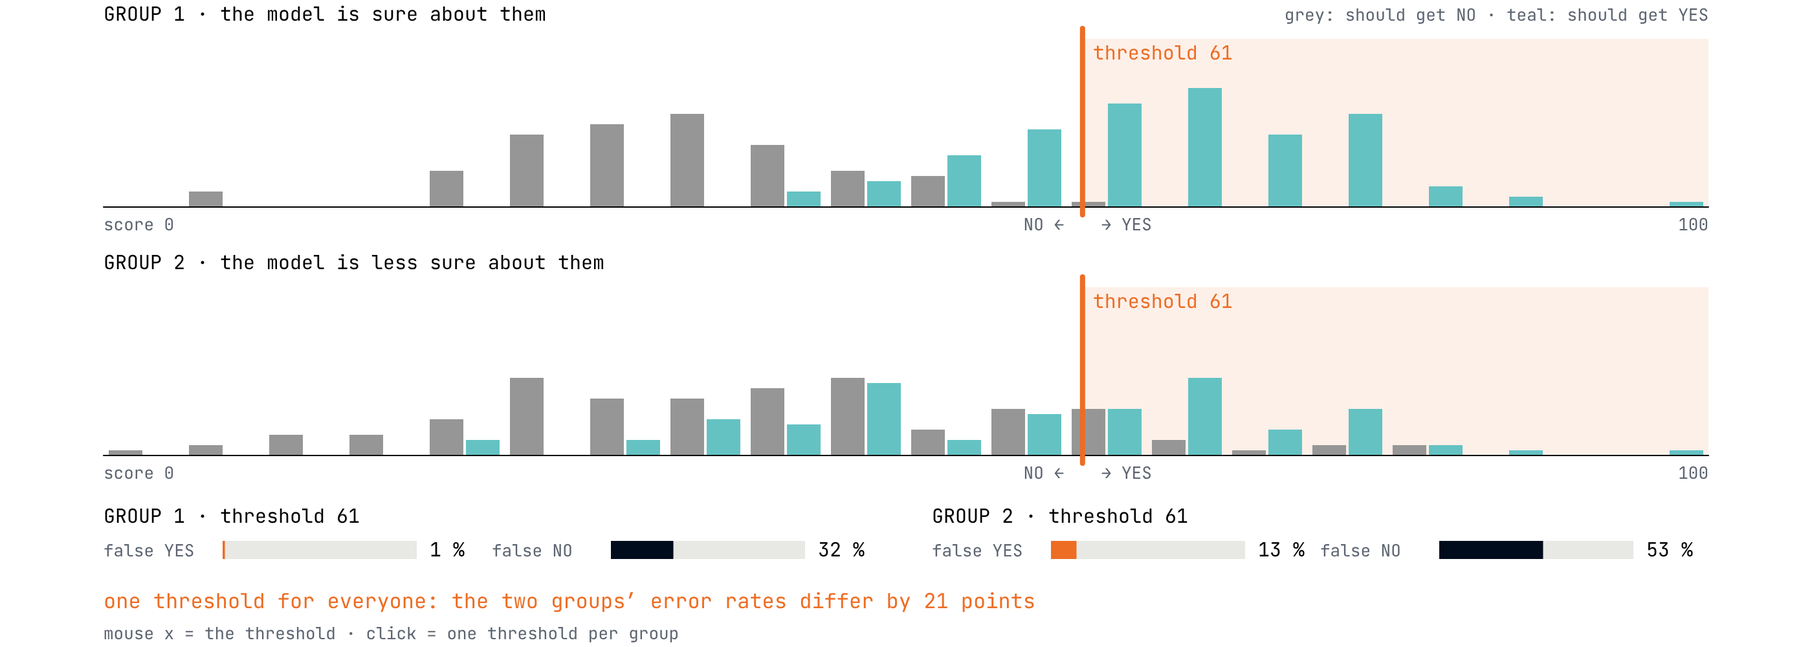
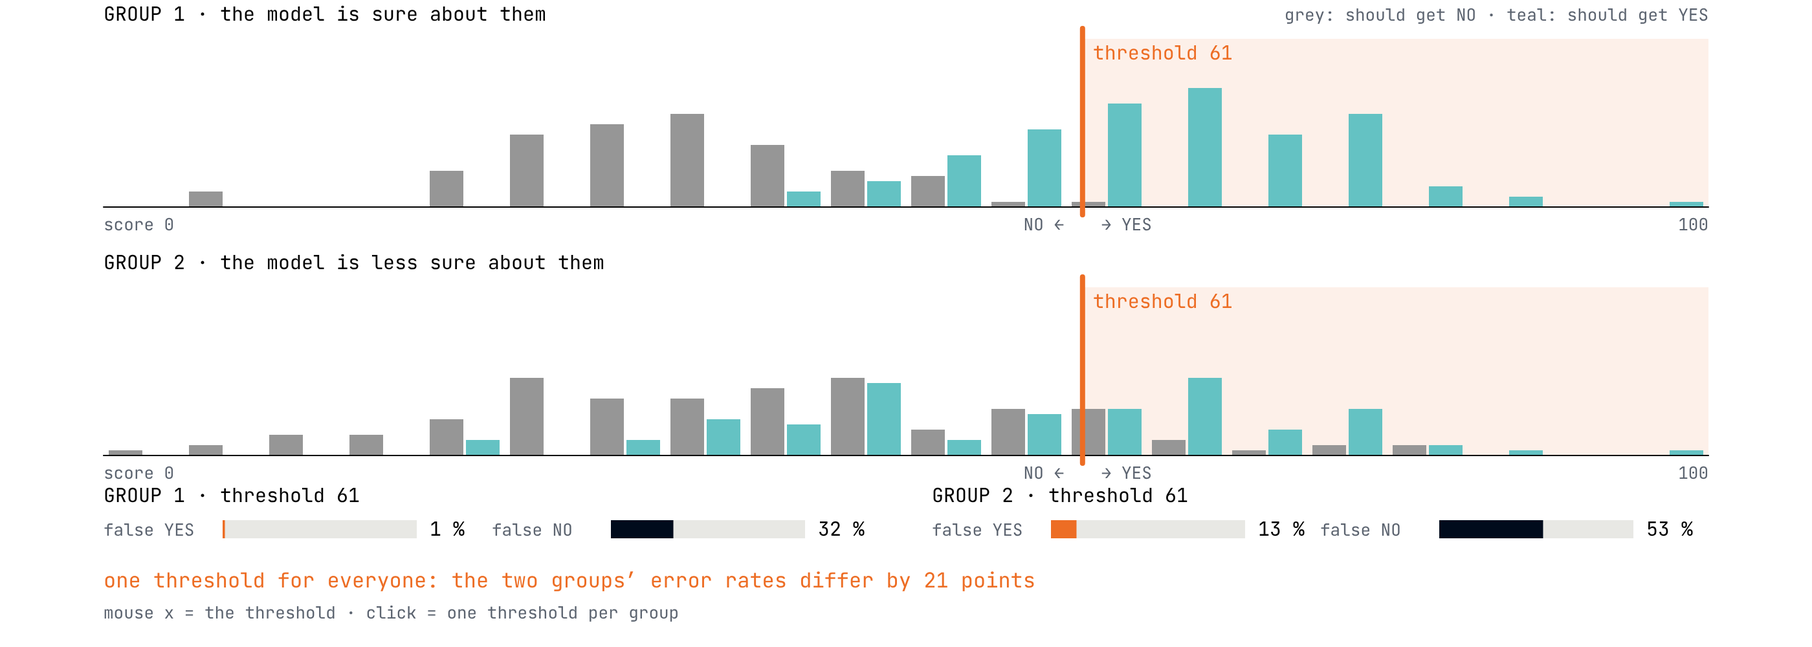
Checkpoint: review fixes in progress (week 9)
Work in progress from the per-week build; the verified state follows in later commits.

Claude-Session: https://claude.ai/code/session_01RdFxTgrpAFbL82dNscS9CL

Changed region(s): [[0.0621, 0.744, 0.9321, 0.992]]

diff --git a/deck/week09.py b/deck/week09.py
@@ -107,8 +107,8 @@ function panel(s, w, wrongWin, wrongWorld) {
           : accWorld > 85 ? 'a fair sample: it learned the world' : 'a straight line; the world is curved';
     text(v, x, 384);
   }
-  if (locked) { fill('#ED6D24'); textSize(15); text('LOCKED · click to release', x, 470); }
-  else { fill(92, 100, 112); textSize(14); text('mouse = the window · click = lock it', x, 470); }
+  if (locked) { fill('#ED6D24'); textSize(15); text('LOCKED · click to release', x, 436); }
+  else { fill(92, 100, 112); textSize(14); text('mouse = the window · click = lock it', x, 436); }
 }
 function bar(x, y, label, v, col) {
   fill(0); textSize(16); text(label, x, y + 14);
@@ -171,7 +171,7 @@ function draw() {
 }
 
 function stats(r, t) {
-  let y = 404;
+  let y = 388;                                              // the verdict line stays clear of the deck's LIVE chip
   for (let g = 0; g < 2; g++) {
     let x = X0 + g * 640;
     noStroke(); fill(0); textSize(15); textAlign(LEFT, BASELINE); text('GROUP ' + (g + 1) + ' · threshold ' + t[g], x, y);
@@ -248,8 +248,8 @@ function draw() {
   fill(0); textSize(16);
   let done = STEPS.slice(0, L), lines = L == 0 ? ['nothing'] : [done.slice(0, 3).join(' · '), done.slice(3).join(' · ')].filter(s => s);
   lines.forEach((s, i) => text(s, x, 222 + i * 22));                            // three steps per line
-  fill('#ED6D24'); textSize(15); text('UNIQUE ROWS', x, 270);
-  fill(0); textSize(28); text(unique + ' of 12', x, 306);
+  fill('#ED6D24'); textSize(15); text('UNIQUE ROWS', x, 278);
+  fill(0); textSize(28); text(unique + ' of 12', x, 313);
   fill('#ED6D24'); textSize(15); text('A NEIGHBOUR WHO KNOWS YOU ARE 46, DISTRICT F, M', x, 356);
   fill(0); textSize(16);
   text(twins.length == 1 ? 'finds one row: ' + ROWS[YOU][3] + '. That is your diagnosis.' : 'narrows it to ' + twins.length + ' rows:', x, 382);
@@ -440,7 +440,7 @@ S.append(content('04 · EQUAL THRESHOLDS, OR EQUAL ERROR RATES', 'Choose which "
                   '- **A person in the loop.** Send the uncertain band to a human. Which human, how fast, and can they overrule the score?',
                   'Google’s 2016 explorable by Wattenberg, Viégas and Hardt let you drag the thresholds; our sketch is the small version.'],
                  body_size=28,
-                 notes='Four things a team can actually do, none of them free. One threshold is what you get by default, and the default is a decision too. Equal error rates is the sketch on the previous slide, click mode: it is a rule you add on top of machine B — machine A guarding machine B — and it shifts the cost onto the company, which is the incentive Hardt wants. A better model is the only real fix and takes months. A person in the loop is the one most products ship, and the register asks the two questions that make it real: who, and can they say no. Then the poll.'))
+                 notes='Four things a team can actually do, none of them free. One threshold is what you get by default, and the default is a decision too. Equal error rates is the sketch two slides back, click mode: it is a rule you add on top of machine B — machine A guarding machine B — and it shifts the cost onto the company, which is the incentive Hardt wants. A better model is the only real fix and takes months. A person in the loop is the one most products ship, and the register asks the two questions that make it real: who, and can they say no. Then the poll.'))
 
 S.append(question('multiple_choice', 'Your model is less sure about one group of users. What ships?', [
     'One threshold for everyone', 'A threshold per group, so the error rates match', 'Nothing, until the model is equally good', 'The uncertain cases go to a person',
@@ -549,7 +549,7 @@ S.append(question('short_answer', 'Team number, and the decision with the bigges
                   notes='Two minutes, scribes only, about 25 lines. Read four aloud and apply the first test to each: is it a verb and a person? "Personalises the experience" fails; "dims the lamp when it thinks she is tired" passes. A line that fails goes back to its team as the first row to fix. Keep the export: week 10 opens by asking every team for the guardrail of this same decision.'))
 
 S.append(activity('2 — TEAMS · THE REGISTER', 10, 'Fill the register for the three.',
-                  ['Three rows, five columns, on paper or in a shared doc. The template is on the right; the filled example is two slides back.',
+                  ['Three rows, five columns, on paper or in a shared doc. The template is on the right; the filled example is in chapter 07.',
                    'Rule: every cell names something concrete. "Users" is not a data source; "the 20 beta testers, all students" is. "Everyone" is not a thin group.',
                    'The TAs walk. Call one over if a cell has stayed empty for two minutes: the empty cell is usually the finding.'],
                   panel=REGISTER, panel_size=21, bg=YELLOWS[1],

diff --git a/lessons/week09-lesson-plan.md b/lessons/week09-lesson-plan.md
@@ -1,17 +1,18 @@
 # SD2112 · Week 9 lesson plan
 
-**Data, bias and privacy** · three-hour lecture-workshop (about 165 minutes of content plus a 15-minute break, with a buffer) · deck: `week09-classpoint.pptx` (55 slides, from the *Build PowerPoints* workflow artifact or a local build) · web: `venetanji.github.io/sd2112-teaching/week09/` (html deck with the three p5.js sketches running live; `SD2112-week09.pdf` next to it)
+**Data, bias and privacy** · three-hour lecture-workshop (about 160 minutes of content plus a 15-minute break, with a 6-minute buffer) · deck: `week09-classpoint.pptx` (57 slides, from the *Build PowerPoints* workflow artifact or a local build) · web: `venetanji.github.io/sd2112-teaching/week09/` (html deck with the three p5.js sketches running live; `SD2112-week09.pdf` next to it)
 
 ## Purpose of this session
 
 For us:
 
-1. Land the sentence of the day — **the model's world is the dataset's world** — mechanically: a dataset is examples, labels, a window and a purpose, and a model trained inside a window is confident and wrong outside it (the live sampling window, slides 12–13).
-2. Replace "AI is biased" with **four doors**, each a decision somebody made: who was collected (data), who named them (labels), what the model was told to want and where the line was drawn (algorithmic), and what the product learns from its own use (interaction) — with a designer-facing case at every door.
-3. Make the **threshold** felt as a design decision: two ways to be wrong, the same line costing two groups differently, the COMPAS contradiction and the theorem behind it, and the four things a team can actually do about it.
-4. Teach **privacy** as three design moves — collect less, link less, keep less — with re-identification by linkage, k-anonymity live, and synthetic data as the escape route that is not one; and name the two regimes (GDPR, Hong Kong PDPO) as principles, not law.
-5. Run the **neutrality debate** as two votes on the same question, before and after the teams have mapped their own product, so that the movement in the room comes from their own work.
-6. Get every team to leave with a **bias register** for its concept — three decisions, five columns each, red-penned by another team — which goes on Blackboard tonight with the concept board and becomes the data, bias and guardrail paragraphs of the mediation brief.
+1. Open with the **first stand-up** of the six that week 8 promised: twelve minutes at the team table, three questions standing, the proposal as the increment, Amber's one sentence back to every team — so the day starts from each team's own data line.
+2. Land the sentence of the day — **the model's world is the dataset's world** — mechanically: a dataset is examples, labels, a window and a purpose, and a model trained inside a window is confident and wrong outside it (the live sampling window, slides 13–14).
+3. Replace "AI is biased" with **four doors**, each a decision somebody made: who was collected (data), who named them (labels), what the model was told to want and where the line was drawn (algorithmic), and what the product learns from its own use (interaction) — with a designer-facing case at every door.
+4. Make the **threshold** felt as a design decision: two ways to be wrong, the same line costing two groups differently, the COMPAS contradiction and the theorem behind it, and the four things a team can actually do about it.
+5. Teach **privacy** as three design moves — collect less, link less, keep less — with re-identification by linkage, k-anonymity live, and synthetic data as the escape route that is not one; and name the two regimes (GDPR, Hong Kong PDPO) as principles, not law.
+6. Run the **neutrality debate** as two votes on the same question, before and after the teams have mapped their own product, so that the movement in the room comes from their own work.
+7. Get every team to leave with a **bias register** for its concept — three decisions, five columns each, red-penned by another team — which goes on Blackboard tonight with the concept board and becomes the data, bias and guardrail paragraphs of the mediation brief.
 
 For students, by the end of the class they can:
 
@@ -26,43 +27,44 @@ For students, by the end of the class they can:
 
 | Who | Task |
 |---|---|
-| Nicolò | Classroom PC: ClassPoint open with the saved class, `week09-classpoint.pptx` loaded, join code on screen from slide 1. Fire the slide-4 word cloud once as a test and reset it. Check the anonymous short answer on slide 33 (names hidden) and the Image Upload button on slide 49 (*caption required*). Html deck open on the laptop: the sketches on slides 13, 25 and 37 run there (the PowerPoint shows stills); rehearse each for one minute — the window, the threshold with a click, k from 1 to 6. Slide timers for the pair debate (42) and the three rounds (47, 48, 50). |
-| Amber | Blackboard: the two submission points due tonight — **concept board** and **bias register**, one per team — with the time confirmed by Gio before slide 54; the register template (slide 48) posted as a document; the deck link and the PDF; the Coded Bias links (Netflix title page, PBS Independent Lens page) in an announcement for anyone who has not watched it. From the week-8 proposals: three anonymised "with what data" phrases for slide 7, and a list of the teams that already named a dataset (they get a mention). |
-| WU Zhao, MA Jie | At the door: teams sit together from the start (the week-7 teams; anyone without a team joins the nearest one for today); a ClassPoint join check. Thirty A3 sheets with the five-column register grid pre-drawn, one per team, and thirty red pens for round 3. During the activity walk with the five tests from slide 45 and read one aloud at any table that has written "users", "everyone" or "we will monitor it". |
-| Gio | Fonts on the classroom PC (`tools/fonts/`). Take a screenshot of the vote-1 split (slide 6) before the break; it goes next to vote 2 (slide 53). Decide the Blackboard time for tonight and tell Amber. Backup: the html deck on a laptop — press `S` for notes; slides 13, 25 and 37 run live there. |
+| Nicolò | Classroom PC: ClassPoint open with the saved class, `week09-classpoint.pptx` loaded, join code on screen from slide 1. Fire the slide-5 word cloud once as a test and reset it. Check the anonymous short answer on slide 34 (names hidden), the one-per-team short answer on slide 49 and the Image Upload button on slide 51 (*caption required*). Html deck open on the laptop: the sketches on slides 14, 26 and 38 run there (the PowerPoint shows stills); rehearse each for one minute — the window (a click locks it and the panel says LOCKED), the threshold with a click (group 2 gets its own threshold and the false-YES gap appears), k from 1 to 6 (at 5 the table goes blank). Slide timers for the stand-up (4), the pair debate (43), the three rounds (48, 50, 52) and the short answer (49). |
+| Amber | Read every week-8 proposal before class and prepare one sentence back per team for the stand-up (slide 4). Export the week-8 short answer *the data your product needs and does not have*, one line per team, and bring it to round 2 (slide 50): it is read back to any team whose data column is empty. From the proposals: three anonymised "with what data" phrases for slide 8, and the list of teams that already named a dataset (they get a mention). Blackboard: the two submission points due tonight — **concept board** and **bias register**, one per team — with the time confirmed by Gio before slide 56; the register template (slide 50) posted as a document; the deck link and the PDF. Coded Bias: check that the Netflix title plays from Hong Kong (or ask the library for a licence) before posting a where-to-watch line; the PBS Independent Lens page is background reading, not a place to stream. |
+| WU Zhao, MA Jie | At the door: teams sit together from the start (the week-7 teams; anyone without a team joins the nearest one for today); a ClassPoint join check. During the stand-up walk with one question per team: what is the data, and do you have it? Thirty A3 sheets with the five-column register grid pre-drawn, one per team, and thirty red pens for round 3. During the activity walk with the five tests from slide 46 and read one aloud at any table that has written "users", "everyone" or "we will monitor it". |
+| Gio | Fonts on the classroom PC (`tools/fonts/`). Screenshots: the word cloud (slide 5) for slide 41, and the vote-1 split (slide 7) for slide 55 — take both before the break. Decide the Blackboard time for tonight and tell Amber. Backup: the html deck on a laptop — press `S` for notes; slides 14, 26 and 38 run live there. |
 
 ## Run of show
 
 | Time | Slides | Segment | What happens | ClassPoint | Notes |
 |---|---|---|---|---|---|
 | 0:00 | 1–2 | Welcome | Course code, the eight stops, teams together from the start. | | |
-| 0:03 | 3–8 | Last week, in your words | *Coded Bias, one word* (2 min); the film — the mask, Gender Shades, where to watch (3); **vote 1: can a model be neutral?** (1); the proposals, three parts, today is the third (3); the map (1). | Word cloud; multiple choice | Screenshot the vote-1 split. Replace the quotes on slide 7 with Amber's three phrases. |
-| 0:15 | 9–15 | A dataset is a set of examples | The sentence of the day (1); anatomy of a dataset — examples, labels, window, purpose, datasheets (3); three windows, three rules (3); **live: the window** (5); the week-1 chairs and LAION (4); quick check (2). | Multiple choice | Slide 13 is the sketch: park the window in the corner, slide it to the far edge, find a one-colour window, lock it. Cut 11 if behind. |
-| 0:35 | 16–22 | Four doors | The loop and the four doors (3); data bias — Gender Shades, Amazon, your beta testers (5); label bias — ImageNet, Google Photos, who says what "tired" is (5); the objective — Twitter's crop (4); interaction — Tay, PredPol, Sweeney's ads, your feed (5); quick check (2). | Multiple choice | Ask two teams who their beta testers are at slide 18. Cut the Tay card's discussion if behind, not the slide. |
-| 1:00 | 23–29 | The threshold | Anatomy: two ways to be wrong (4); **live: the threshold**, then click for a threshold per group (5); COMPAS: both sides right, the theorem (4); equal thresholds or equal error rates: four things a team can do (3); stance poll (2); *a threshold is a design decision* (1). | Multiple choice | Slide 25: narrate the bars while sliding; the click is the Hardt move. One person per letter defends the poll on 28. |
-| 1:19 | 30 | **Break, 15 min** | Teams sit together after the break. Anyone who has not seen the film: the first twenty minutes now. | | |
-| 1:34 | 31–38 | Privacy | Four principles, two laws (4); *one thing your product could stop collecting* (3); re-identification by linkage — Sweeney, Weld (3); 87 % (1); Netflix Prize, Strava, the rule (3); **live: k-anonymity** (5); synthetic data and model collapse (3). | Short answer, names hidden | Slide 37: slide k from 1 to 6 and read the neighbour line each time; at k = 5 the table is empty — say why. Cut 36 or 38 if behind. |
-| 1:56 | 39–42 | Can a model be neutral? | Three positions (4); the sentence to argue with (1); **pairs: argue the side you did not vote for** (5, timed). | | TAs note the two best examples per side for slide 53. Do not give your own answer. |
-| 2:06 | 43–45 | The bias register | The filled example, row by row (3); how to fill it — the five tests (3). | | Ask the room what is missing from the second row of the example. |
-| 2:12 | 46–53 | **Activity: map the ethics of your concept** | Section (1); round 1, the decisions (6); round 2, the register (10); capture, one image per team (4); round 3, the red pen (6); *which of your biases is the worst?* (2); what just happened (2); **vote 2** (3). | Image upload; 2 × multiple choice | Nicolò keeps time; the other three TAs walk with the five tests. Details below. |
-| 2:46 | 54–55 | Homework | Concept board and register on Blackboard tonight; prototype v1 for week 10; two screenshots of recommendations. | | TAs stay 30 minutes. |
-| 2:49 | | Buffer | | | |
+| 0:03 | 3–9 | Last week, in your words | **The stand-up** at the team table (4, 12 min, standing: three questions, then the proposal read aloud, one item on top of the backlog; Amber answers every proposal); *Coded Bias, one word* (2); the film — the mask, Gender Shades, where to watch (2); **vote 1: can a model be neutral?** (1); the proposals, three parts, today is the third (2); the map (1). | Word cloud; multiple choice | The stand-up is timed on the slide; hold it at twelve. Screenshot the word cloud and the vote-1 split. Replace the quotes on slide 8 with Amber's three phrases. |
+| 0:23 | 10–16 | A dataset is a set of examples | The sentence of the day (1); anatomy of a dataset — examples, labels, window, purpose, datasheets (3); three windows, three rules (3); **live: the window** (5); the week-1 chairs and LAION (4); quick check (2). | Multiple choice | Slide 14 is the sketch: park the window in the corner, slide it to the far edge, find a one-colour window, click to lock it (the panel says LOCKED). Cut 12 if behind. |
+| 0:42 | 17–23 | Four doors | The loop and the four doors (3); data bias — Gender Shades, Amazon, your beta testers (4); label bias — ImageNet, Google Photos, who says what "tired" is (5); the objective — Twitter's crop and what the audit did and did not find (4); interaction — Tay, PredPol, Sweeney's ads, your feed (4); quick check (2). | Multiple choice | Ask two teams who their beta testers are at slide 19. Cut the Tay card's discussion if behind, not the slide. |
+| 1:05 | 24–30 | The threshold | Anatomy: two ways to be wrong (4); **live: the threshold**, then click for a threshold per group (5); COMPAS: both sides right, the theorem (3); equal thresholds or equal error rates: four things a team can do (3); stance poll (2); *a threshold is a design decision* (1). | Multiple choice | Slide 26: narrate the bars while sliding; the click is the Hardt move — group 2's threshold drops and its false-YES bar rises. One person per letter defends the poll on 29. |
+| 1:23 | 31 | **Break, 15 min** | Teams sit together after the break. Anyone who has not seen the film: the first twenty minutes now. | | |
+| 1:38 | 32–39 | Privacy | Four principles, two laws (4); *one thing your product could stop collecting* (3); re-identification by linkage — Sweeney, Weld (3); 87 % (1); Netflix Prize, Strava, the rule (2); **live: k-anonymity** (5); synthetic data and model collapse (3). | Short answer, names hidden | Slide 38: slide k from 1 to 6 and read the neighbour line each time; at k = 5 the table is blank — say why. Cut 37 or 39 if behind. |
+| 1:59 | 40–43 | Can a model be neutral? | Three positions, with the slide-5 word cloud next to them (4); the sentence to argue with (1); **pairs: argue the side you did not vote for** (4, timed). | | TAs note the two best examples per side for slide 55. Do not give your own answer. |
+| 2:09 | 44–46 | The bias register | The filled example, row by row (3); how to fill it — the five tests (2). | | Ask the room what is missing from the second row of the example. |
+| 2:15 | 47–55 | **Activity: map the ethics of your concept** | Section (1); round 1, the decisions (6); capture 1, one line per team (2); round 2, the register (10); capture 2, one image per team (4); round 3, the red pen (6); *which of your biases is the worst?* (2); what just happened (2); **vote 2** (3). | Short answer; image upload; 2 × multiple choice | Nicolò keeps time; the other three TAs walk with the five tests. Details below. |
+| 2:51 | 56–57 | Homework | Concept board and register on Blackboard tonight; prototype v1 started, shown as it stands at the week-10 stand-up, on Blackboard before week 11; look at your own feed before next week. | | TAs stay 30 minutes. |
+| 2:54 | | Buffer | | | |
 
-If the room is slow, cut slides 11, 36 and 38 and give round 3 four minutes instead of six. If the room is fast, let two teams read a full row of their register aloud after the capture and have the room say which of the five tests it fails, if any.
+If the room is slow, cut slides 12, 37 and 39 and give round 3 four minutes instead of six; the stand-up stays at twelve, the timer is on the slide. If the room is fast, let two teams read a full row of their register aloud after capture 2 and have the room say which of the five tests it fails, if any.
 
 ## The activity, in detail: Map the ethics of your concept
 
-Each team takes its own product from the week-8 proposal and writes a **bias register**: one row per decision the model makes, five columns — the decision, the data it learns from, who is thin in that data, the harm when it is wrong (both ways), the guardrail. Paper (the A3 grid the TAs hand out) or a shared document; the template is on slide 48 and the filled example (Nightlight, a fictional bedside lamp) on slide 44. **What goes into ClassPoint is one image per team, with a caption naming the product and the row the team thinks is the worst**; then two votes.
+Each team takes its own product from the week-8 proposal and writes a **bias register**: one row per decision the model makes, five columns — the decision, the data it learns from, who is thin in that data, the harm when it is wrong (both ways), the guardrail. Paper (the A3 grid the TAs hand out) or a shared document; the template is on slide 50 and the filled example (Nightlight, a fictional bedside lamp) on slide 45. **Every round ends in ClassPoint: one line per team after round 1, one image per team after round 2 with a caption naming the product and the row the team thinks is the worst, and two votes after round 3.**
 
-1. **Round 1, teams, 6 minutes — the decisions (slide 47).** Open the proposal; write down every decision the model makes for a person, a verb and a person each. Most products have five to ten once they look: the ranking, the default, the notification, the moment it stays silent. Circle the three with the biggest harm when wrong.
-2. **Round 2, teams, 10 minutes — the register (slide 48).** Three rows, five columns. Every cell names something concrete: "users" is not a data source, "everyone" is not a thin group, "we will monitor it" is not a guardrail. The TAs walk with the five tests from slide 45; an empty cell after two minutes is a finding, not a failure — usually the team has not decided what the data is, so send them back a column. Nicolò calls two minutes before the end so that every cell has at least a question mark.
-3. **Capture, 4 minutes — one image per team, caption required (slide 49).** A photo or screenshot of the three rows; caption: the product name and the worst row. Put the wall on screen and read one row from two registers — one with a real person in the thin column, one with "everyone" — naming rows, not teams.
-4. **Round 3, swap, 6 minutes — the red pen (slide 50).** Swap registers with the neighbouring team. In red, add one person who is thin in their data and one harm they did not write. Give it back; read the additions; no arguing. This is the Gender Shades audit done by amateurs in a hurry, and it works because a window is easiest to see from outside the team.
-5. **Which of your team's biases is the worst? (slide 51).** One vote per person, so teams can disagree with themselves. Ask a D (interaction) to explain — those products learn after they ship, which is week 10 — and ask a C (algorithmic) which threshold they meant.
-6. **What just happened (slide 52).** The decisions were more than they thought; the third column was the hard one and the red pen found more; the guardrail is machine A guarding machine B. *The model learned the window. You decided who else needs to be in it. That was the design.*
-7. **Vote 2 (slide 53).** The same four answers as slide 6, side by side with the morning's screenshot. Movement in either direction is the point: whoever moved, moved because of their own product. The TAs read the two best examples from the pair debate (slide 42).
+1. **Round 1, teams, 6 minutes — the decisions (slide 48).** Open the proposal; write down every decision the model makes for a person, a verb and a person each. Most products have five to ten once they look: the ranking, the default, the notification, the moment it stays silent. Circle the three with the biggest harm when wrong.
+2. **Capture 1, 2 minutes — one line per team (slide 49).** The scribe types the team number and the decision with the biggest harm, as a verb and a person. Read four aloud and apply the first test: "personalises the experience" fails, "dims the lamp when it thinks she is tired" passes; a line that fails goes back to its team as the first row to fix. Keep the export: week 10 opens by asking each team for the guardrail of this same decision.
+3. **Round 2, teams, 10 minutes — the register (slide 50).** Three rows, five columns. Every cell names something concrete: "users" is not a data source, "everyone" is not a thin group, "we will monitor it" is not a guardrail. The TAs walk with the five tests from slide 46; an empty cell after two minutes is a finding, not a failure — usually the team has not decided what the data is, so send them back a column, and Amber reads the team its own week-8 line about the data it does not have. Nicolò calls two minutes before the end so that every cell has at least a question mark.
+4. **Capture 2, 4 minutes — one image per team, caption required (slide 51).** A photo or screenshot of the three rows; caption: the product name and the worst row. Put the wall on screen and read one row from two registers — one with a real person in the thin column, one with "everyone" — naming rows, not teams.
+5. **Round 3, swap, 6 minutes — the red pen (slide 52).** Swap registers with the neighbouring team. In red, add one person who is thin in their data and one harm they did not write. Give it back; read the additions; no arguing. This is the Gender Shades audit done by amateurs in a hurry, and it works because a window is easiest to see from outside the team.
+6. **Which of your team's biases is the worst? (slide 53).** One vote per person, so teams can disagree with themselves. Ask a D (interaction) to explain — those products learn after they ship, which is week 10 — and ask a C (algorithmic) which threshold they meant.
+7. **What just happened (slide 54).** The decisions were more than they thought; the third column was the hard one and the red pen found more; the guardrail is machine A guarding machine B. *The model learned the window. You decided who else needs to be in it. That was the design.*
+8. **Vote 2 (slide 55).** The same four answers as slide 7, side by side with the morning's screenshot. Movement in either direction is the point: whoever moved, moved because of their own product. The TAs read the two best examples from the pair debate (slide 43).
 
-The register goes on Blackboard tonight with the concept board (slide 54), red-pen additions marked as additions; it becomes the bias and guardrail paragraphs of the mediation brief.
+The register goes on Blackboard tonight with the concept board (slide 56), red-pen additions marked as additions; it becomes the bias and guardrail paragraphs of the mediation brief. Prototype v1 is next sprint's item: the teams start it now, show whatever exists at the week-10 stand-up, and upload it before week 11 (the week-10 deck says the same).
 
 TA roles: Nicolò keeps time with the slide timers and calls the round changes; Amber, WU Zhao and MA Jie walk with the five tests, help teams that stall on the third column, and note the two or three best rows for the week-11 datasets session.
 
@@ -70,21 +72,24 @@ TA roles: Nicolò keeps time with the slide timers and calls the round changes; 
 
 | Slide | Type | Question | Use |
 |---|---|---|---|
-| 4 | Word cloud | Coded Bias: one word that stayed with you. | Warm-up and a check that the film was watched; screenshot for slide 40. |
-| 6 | Multiple choice | Can a model be neutral? (vote 1 of 2) | No correct answer; screenshot the split for slide 53. |
-| 15 | Multiple choice | Why did the model give four almost identical chairs? | Quick check: C — the most typical chair in its dataset. |
-| 22 | Multiple choice | A photo app learns from what you favourite and stops showing your grandmother. Which door? | Quick check: D — interaction bias (C, the objective, is half right; reward the reasoning). |
-| 28 | Multiple choice | Your model is less sure about one group. What ships? | Stance; no correct answer. One person per letter defends it. |
-| 33 | Short answer, names hidden | Name one thing your product could stop collecting tomorrow. | Data minimisation as an exercise; the list feeds the register's data column. Keep it. |
-| 49 | Image upload, one per team, caption required | Your register: three rows; caption = product and worst row. | The wall; the captions say which row each team fears. Download for week 11 and the brief review. |
-| 51 | Multiple choice | Which of your team's biases is the worst? | Self-diagnosis; no correct answer. Ask a D and a C to explain. |
-| 53 | Multiple choice | Now that you have mapped your own product: can a model be neutral? (vote 2 of 2) | Show next to the slide-6 split; the movement is the debrief. |
+| 5 | Word cloud | Coded Bias: one word that stayed with you. | Warm-up and a check that the film was watched; screenshot for slide 41. |
+| 7 | Multiple choice | Can a model be neutral? (vote 1 of 2) | No correct answer; screenshot the split for slide 55. |
+| 16 | Multiple choice | Why did the model give four almost identical chairs? | Quick check: C — the most typical chair in its dataset. |
+| 23 | Multiple choice | A photo app learns from what you favourite and stops showing your grandmother. Which door? | Quick check: D — interaction bias (C, the objective, is half right; reward the reasoning). |
+| 29 | Multiple choice | Your model is less sure about one group. What ships? | Stance; no correct answer. One person per letter defends it. |
+| 34 | Short answer, names hidden | Name one thing your product could stop collecting tomorrow. | Data minimisation as an exercise; the list feeds the register's data column. Keep it. |
+| 49 | Short answer, one per team | Team number, and the decision with the biggest harm. | The first test applied in public; the export seeds the week-10 warm-up (the guardrail of the same decision). |
+| 51 | Image upload, one per team, caption required | Your register: three rows; caption = product and worst row. | The wall; the captions say which row each team fears. Download for week 11 and the brief review. |
+| 53 | Multiple choice | Which of your team's biases is the worst? | Self-diagnosis; no correct answer. Ask a D and a C to explain. |
+| 55 | Multiple choice | Now that you have mapped your own product: can a model be neutral? (vote 2 of 2) | Show next to the slide-7 split; the movement is the debrief. |
 
-All nine buttons are generated by the build (names hidden on 33; caption required on 49).
+All ten buttons are generated by the build (names hidden on 34; caption required on 51).
 
 ## What to keep after class
 
-- The two vote screenshots (slides 6 and 53): they open the week-12 chapter on transparency and accountability.
-- The slide-33 list of things products could stop collecting: it comes back in week 10 with the feed, and in week 11 with the datasets.
-- The slide-49 registers, downloaded: Amber checks them against tonight's Blackboard uploads and flags any team whose data column still says "users"; the three best rows are shown (anonymised) in week 11 next to the LoRA datasets.
+- The two vote screenshots (slides 7 and 55): they open the week-12 chapter on transparency and accountability.
+- The slide-34 list of things products could stop collecting: it comes back in week 10 with the feed, and in week 11 with the datasets.
+- The slide-49 decisions, one per team: week 10's warm-up asks for the guardrail of the same decision, so keep the export next to the week-10 deck.
+- The slide-51 registers, downloaded: Amber checks them against tonight's Blackboard uploads and flags any team whose data column still says "users"; the three best rows are shown (anonymised) in week 11 next to the LoRA datasets.
+- Which teams had nothing to say at the stand-up, or no proposal on Blackboard: they get the first review slot with Amber after class.
 - The best red-pen additions and the two best debate examples the TAs noted: the week-12 recap.
